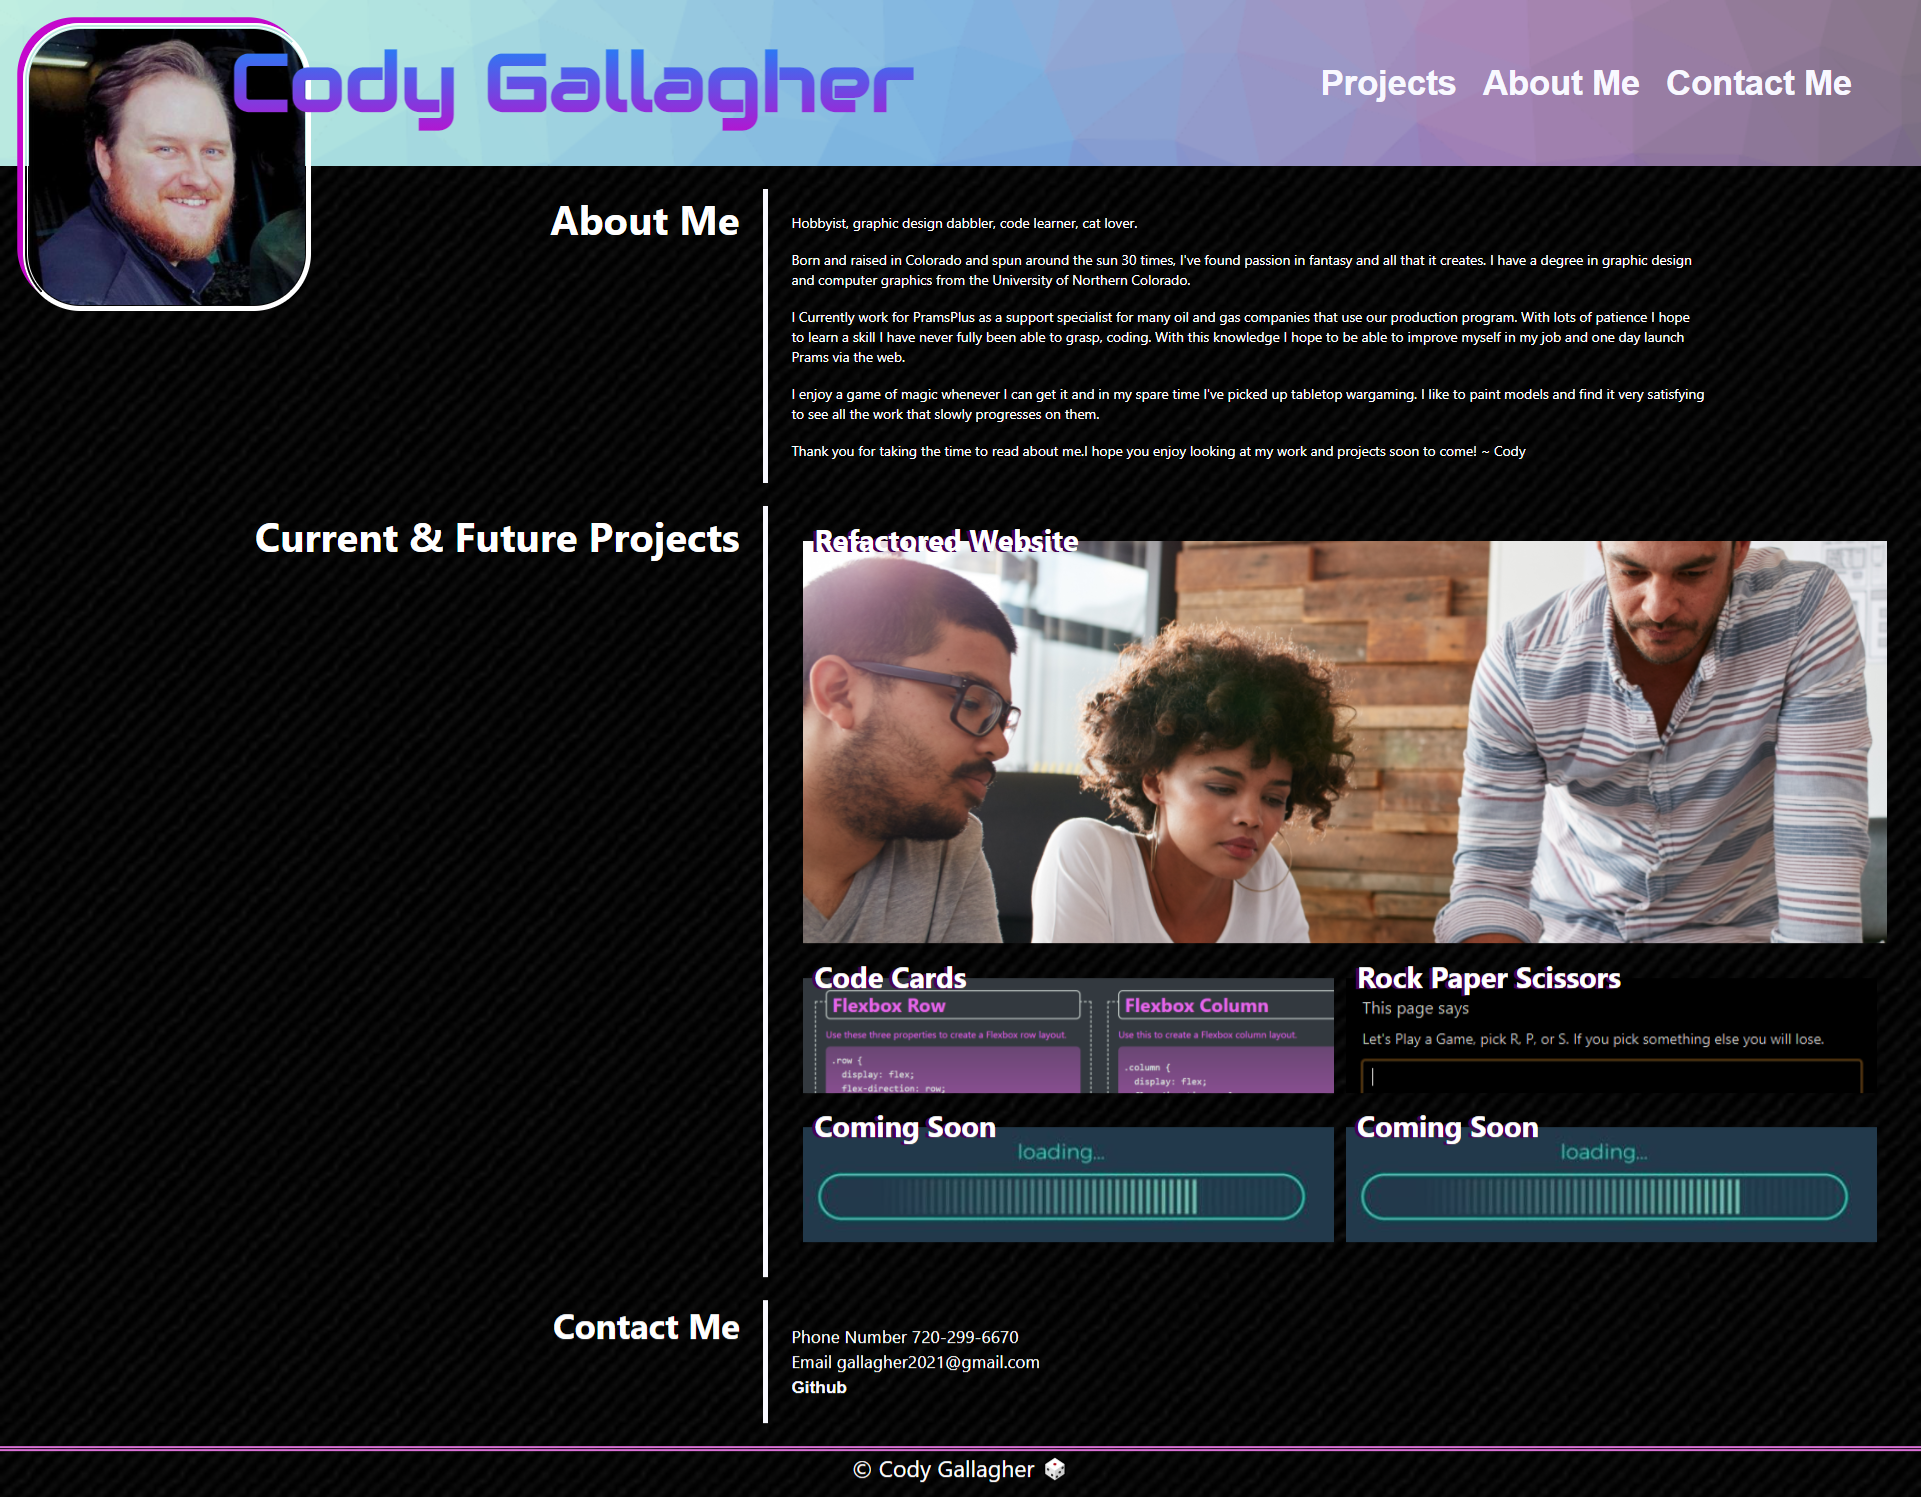
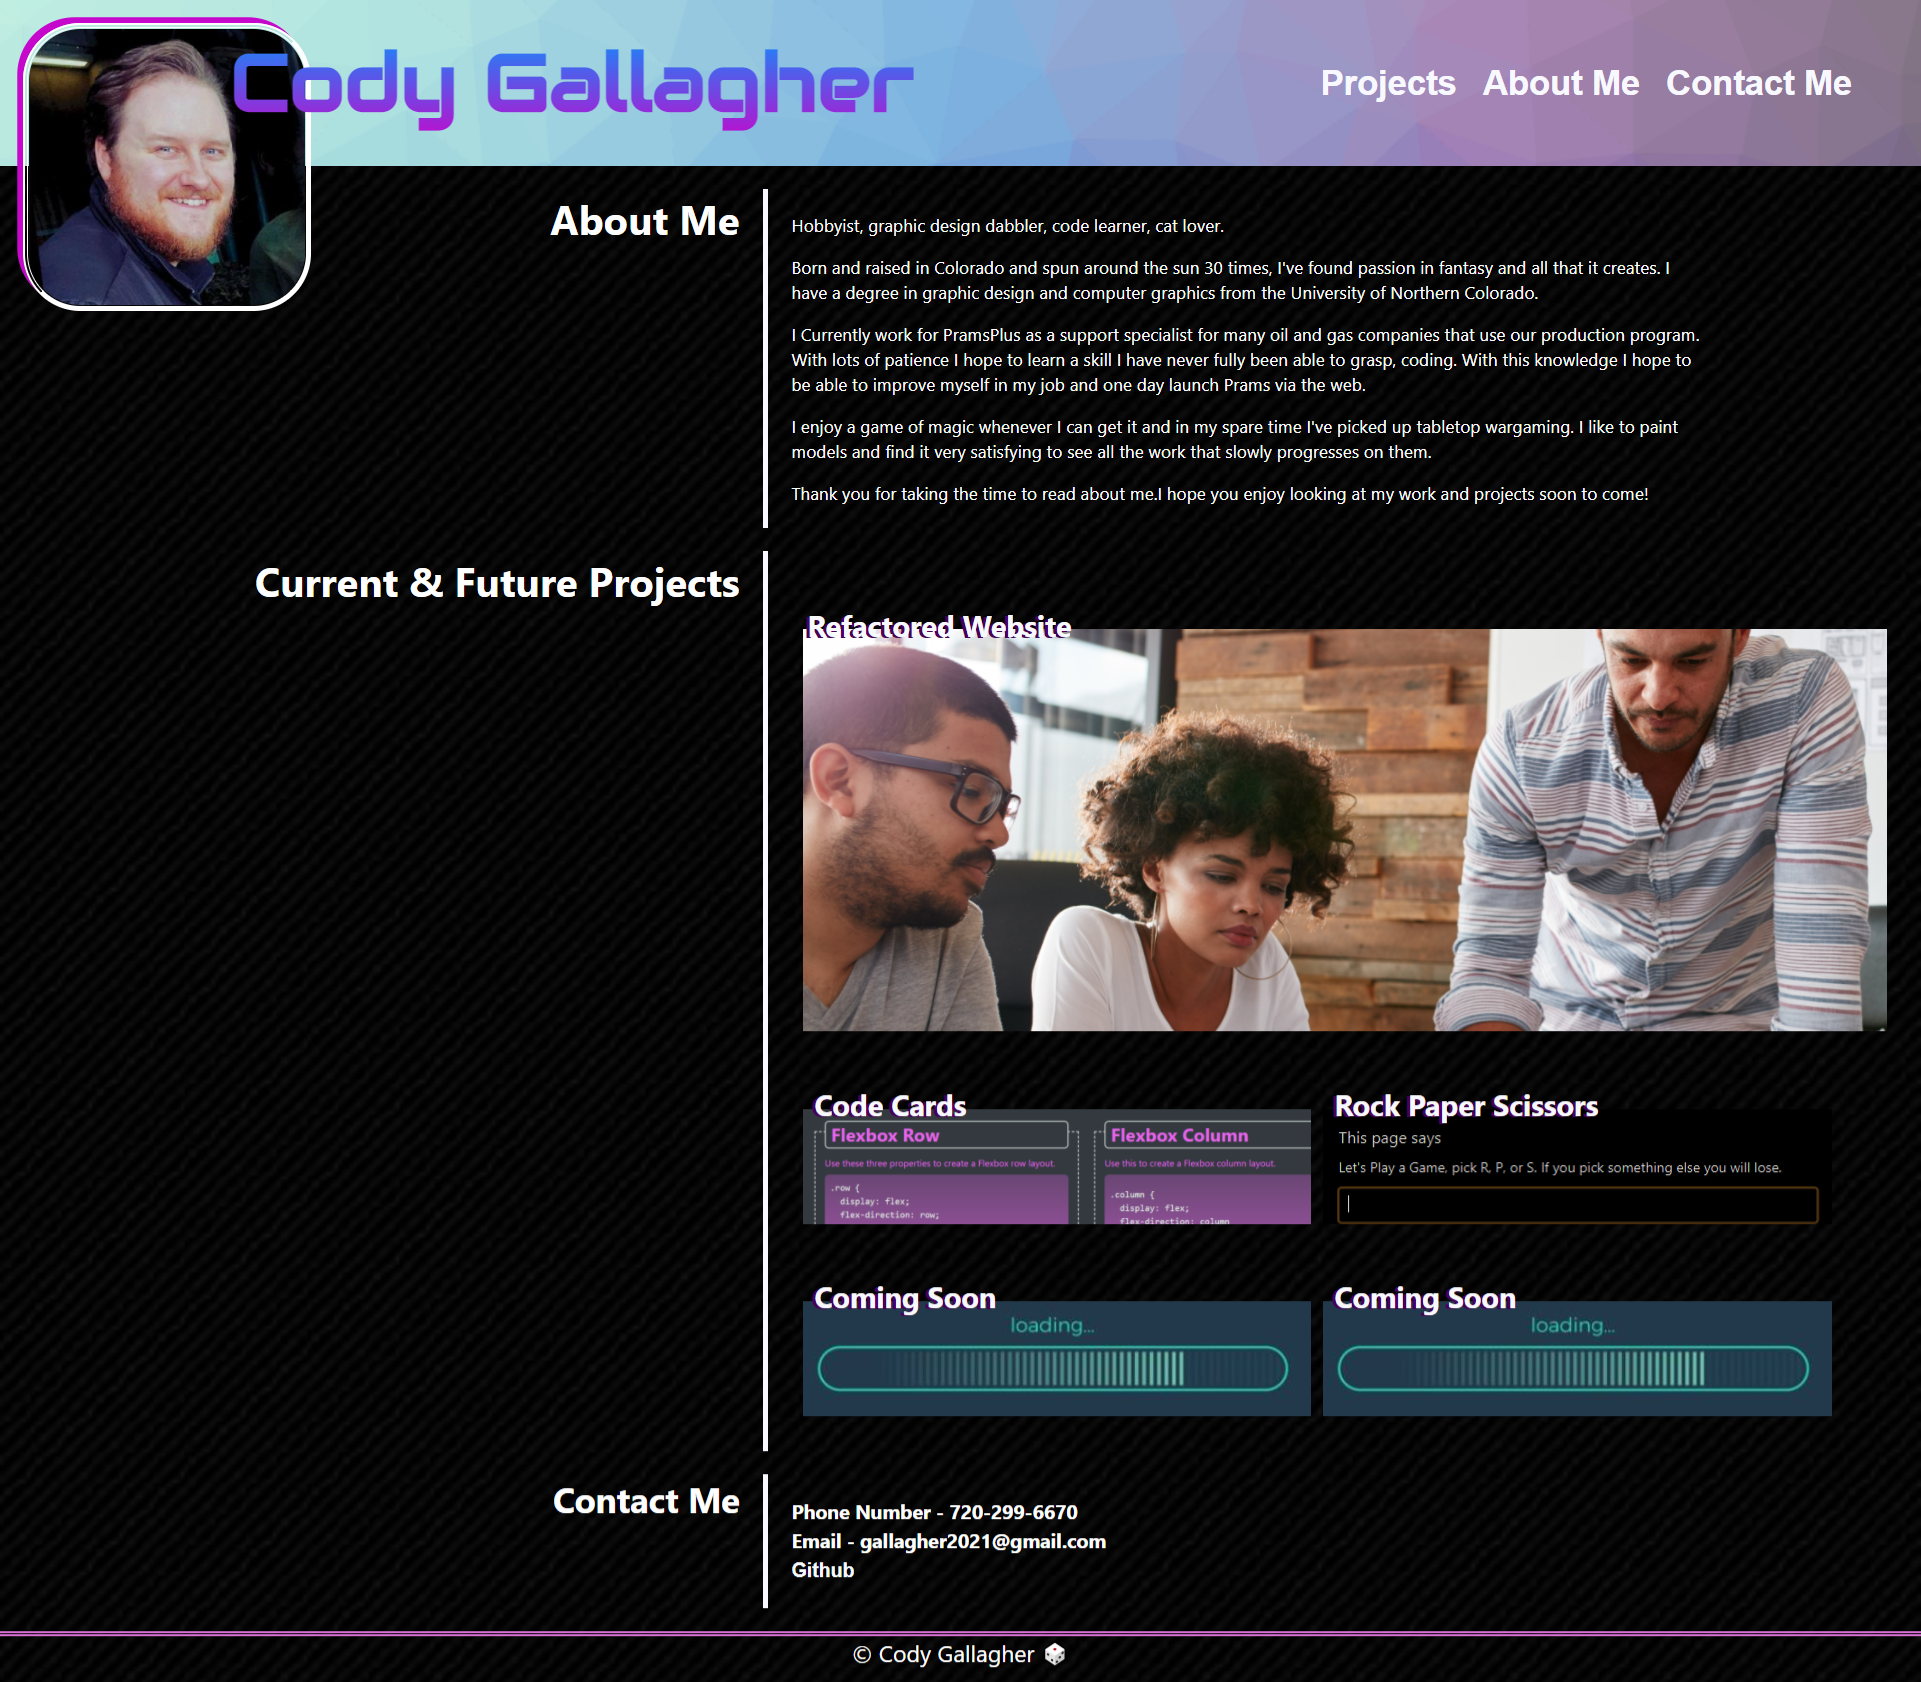
Changed around a few things and linked more projects also cleaned up the old code.

diff --git a/assets/css/styles.css b/assets/css/styles.css
@@ -1,3 +1,4 @@
+/* Variables */
 :root {
   --white: #f8f8ff;
   --orange: rgb(255, 136, 0);
@@ -9,6 +10,8 @@
   color: rgb(0, 0, 0);
   background-color: var(--orange);
 }
+
+/* Universal Selectors */
 
 * {
   box-sizing: border-box;
@@ -63,7 +66,7 @@ h3 {
 }
 
 p {
-  font-size: 1.2rem;
+  font-size: 1.5rem;
 }
 
 footer {
@@ -73,6 +76,8 @@ footer {
   text-align: center;
   font-size: 2rem;
 }
+
+/* Class Selectors */
 
 .profilePic {
   position: absolute;
@@ -106,7 +111,8 @@ footer {
 
 .contactInfo li,
 .contactInfo li a {
-  font-size: 1.5rem;
+  font-size: 1.7rem;
+  font-weight: bold;
 }
 
 .aboutMe,
@@ -158,8 +164,8 @@ footer {
   color: var(--white);
   position: relative;
   text-shadow: -3px 1px 0px #480155;
-  margin-top: -2rem;
-  padding-left: 1rem;
+  top: 35px;
+  left: 20px;
   transition: all 0.5s ease-in-out;
 }
 
@@ -169,8 +175,8 @@ footer {
 .rockPaper {
   min-height: 10rem;
   margin: 2rem 0 1rem 1rem;
-  flex: 0 0 48%;
 }
+
 .re-web:hover,
 .codeSnips:hover,
 .rockPaper:hover,
@@ -210,7 +216,11 @@ footer {
   flex-wrap: wrap;
 }
 
-/*------------------------------- Media Queries--------------------------- */
+.project-boxes-lower a {
+  flex: 0 0 47%;
+}
+
+/*---Media Queries--- */
 
 @media screen and (max-width: 1154px) {
   .profilePic {
@@ -227,10 +237,7 @@ footer {
 }
 
 @media screen and (max-width: 992px) {
-  .codeSnips,
-  .comingSoon1,
-  .comingSoon2,
-  .rockPaper {
+  .project-boxes-lower a {
     flex: 0 0 100%;
     min-width: 100%;
   }
@@ -340,85 +347,3 @@ footer {
     max-width: 50%;
   }
 }
-/* @media screen and (max-width: 768px) {
-  .codeSnips,
-  .comingSoon1,
-  .comingSoon2,
-  .rockPaper {
-    flex: 0 0 47%;
-    min-width: 47%;
-  }
-} */
-
-/* .main-stage {
-  display: flex;
-  flex-direction: row;
-  justify-content: center;
-  margin-left: 0.5rem;
-  margin-right: 0.5rem;
-  height: 100vh;
-} */
-
-/* .left-stage {
-  position: sticky;
-  display: flex;
-  flex: 1 0 20%;
-  flex-direction: column;
-  align-items: center;
-  padding: 1rem;
-  background-image: url(../images/cool-background-black.png);
-  background-size: cover;
-  box-shadow: 1px 0px 10px black;
-  background: radial-gradient(circle, rgba(199, 179, 179, 0) 0%, rgba(0,0,0,1) 80%), url(../images/cool-background-black.png);
-} */
-
-/* .right-stage {
-  display: flex;
-  flex-direction: row;
-  margin-left: 1.5rem;
-  flex: 1 0 80%;
-  border: 2px solid var(--orange);
-} */
-
-/* .scroll {
-  overflow-y: scroll;
-}::-webkit-scrollbar {
-  width: 10px;
-  background: transparent;
-} */
-/* .scroll {
-  overflow: hidden;
-}
-.scroll:hover {
-  overflow-y: scroll;
-} */
-/* .left-stage {
-  position: fixed;
-  top: 0%;
-  margin-top: 0rem;
-  left: 0%;
-  margin-left: 0rem;
-  background: radial-gradient(circle, rgba(199, 179, 179, 0) 0%, rgba(0,0,0,1) 80%), url(../images/White-Texture-HD-Backgrounds-5.jpg);
-  width: 80rem;
-  height: 100vh;
-  border-radius: 0px 45px 45px 0px;
-  box-shadow: inset 0px 0px 1000px rgba(0, 0, 0, 1), 0 0 25px rgba(0, 0, 0, 1);
-} */
-
-/* @media screen and (min-width: 768px) {
-  .left-stage {
-    top: 25%;
-    left: 25%;
-  }
-}
-
-@media screen and (min-width: 992px) {
-  .left-stage {
-    top: 0%;
-    left: 0%;
-  }
-} */
-
-/* border radius 50 */
-
-/* box-shadow 8 and 15 */

diff --git a/index.html b/index.html
@@ -6,15 +6,12 @@
     <meta name="viewport" content="width=device-width, initial-scale=1.0" />
     <link rel="stylesheet" type="text/css" href="./assets/css/reset.css" />
     <link rel="stylesheet" type="text/css" href="./assets/css/styles.css" />
-    <link rel="preconnect" href="https://fonts.gstatic.com" />
     <title>Cody Gallagher's Portfolio</title>
-    <link rel="preconnect" href="https://fonts.gstatic.com" />
     <link
       href="https://fonts.googleapis.com/css2?family=Audiowide&display=swap"
       rel="stylesheet"
     />
   </head>
-
   <body>
     <header>
       <nav>
@@ -31,7 +28,6 @@
         </ul>
       </nav>
     </header>
-
     <main>
       <section id="aboutMe" class="aboutMe">
         <h1>About Me</h1>
@@ -62,30 +58,36 @@
           <br />
           <p>
             Thank you for taking the time to read about me.I hope you enjoy
-            looking at my work and projects soon to come! ~ Cody
+            looking at my work and projects soon to come!
           </p>
         </section>
       </section>
       <section id="projects" class="projects">
         <h1>Current & Future Projects</h1>
         <section class="project-boxes">
-          <a href="https://codyg-2021.github.io/01-HTML-CSS-and-Git-Code-Refactor/">
-          <h3 class="projHeader1">Refactored Website</h3>
+          <a
+            href="https://codyg-2021.github.io/01-HTML-CSS-and-Git-Code-Refactor/"
+          >
+            <h3 class="projHeader1">Refactored Website</h3>
             <figure class="re-web"></figure>
           </a>
           <div class="project-boxes-lower">
-            <section class="codeSnips">
+            <a href="https://codyg-2021.github.io/code-cards/">
               <h3 class="projHeader">Code Cards</h3>
-            </section>
-            <section class="rockPaper">
+              <figure class="codeSnips"></figure>
+            </a>
+            <a href="https://codyg-2021.github.io/rock-paper-scissors/">
               <h3 class="projHeader">Rock Paper Scissors</h3>
-            </section>
-            <section class="comingSoon1">
+              <figure class="rockPaper"></figure>
+            </a>
+            <a href="">
               <h3 class="projHeader">Coming Soon</h3>
-            </section>
-            <section class="comingSoon2">
+              <figure class="comingSoon1"></figure>
+            </a>
+            <a href="">
               <h3 class="projHeader">Coming Soon</h3>
-            </section>
+              <figure class="comingSoon2"></figure>
+            </a>
           </div>
         </section>
       </section>

diff --git a/README.md b/README.md
@@ -13,6 +13,7 @@ Below is a screen shot of the portfolio:
 ![The finished portfolio website](assets/images/screenshot-portfolio.png)
 
 A note from Cody:
+
 *This was a labor of love and was a eye opener to how much actually goes into creating a fully functional site. It was truly a challenge but I enjoyed working on it as it taught me a lot along the way.*
 
 
